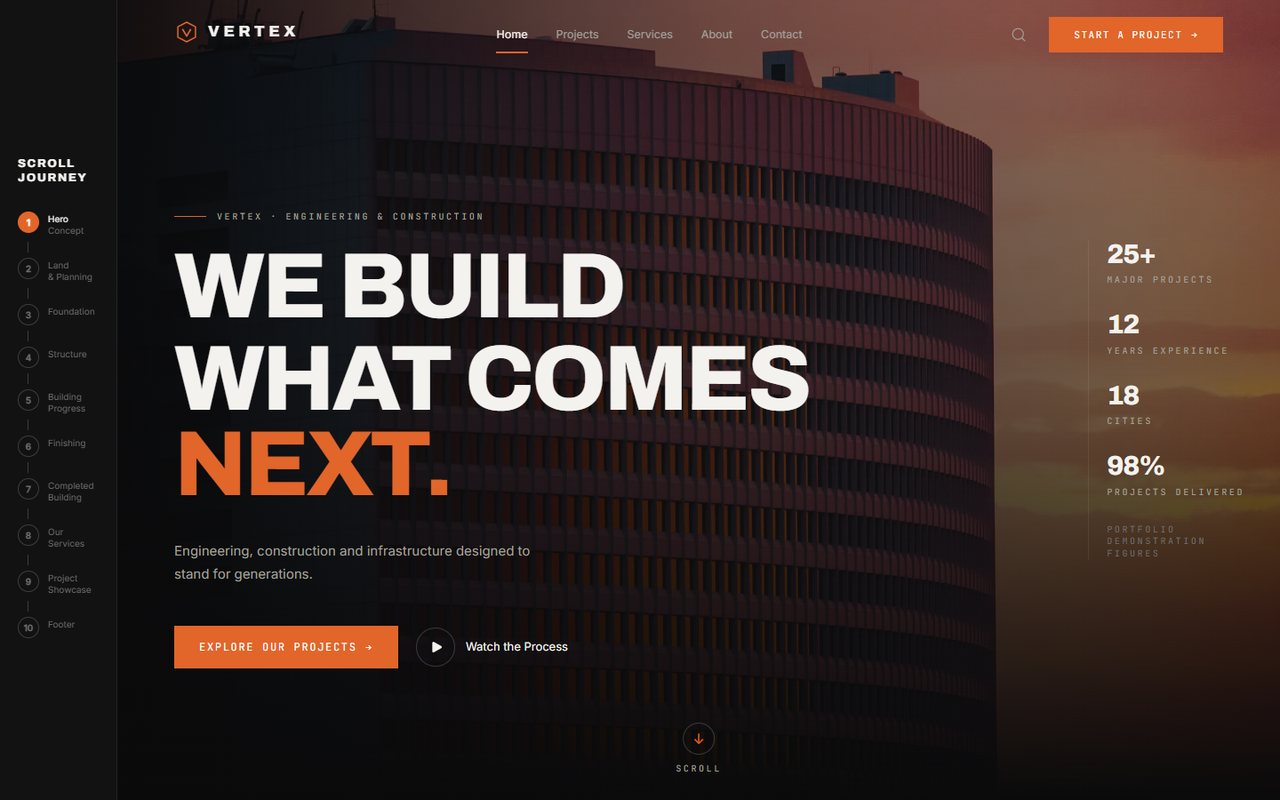
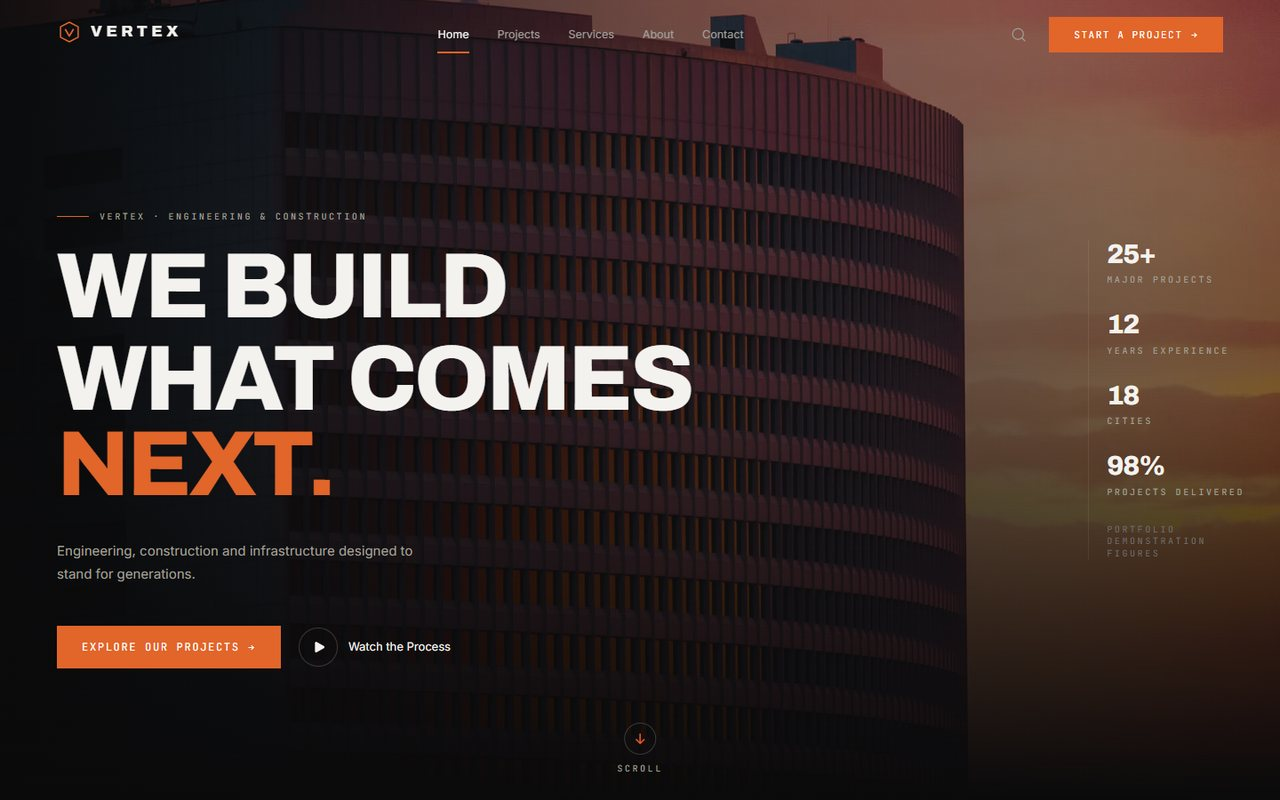
Remove the scroll journey rail
The page now runs full width with no fixed left gutter.

diff --git a/src/App.tsx b/src/App.tsx
@@ -2,7 +2,6 @@ import { MotionConfig } from "framer-motion";
 import { useState } from "react";
 import { Footer } from "./components/Footer";
 import { Intro } from "./components/Intro";
-import { JourneyRail } from "./components/JourneyRail";
 import { Navbar } from "./components/Navbar";
 import { Completion } from "./sections/Completion";
 import { FinalCTA } from "./sections/FinalCTA";
@@ -24,23 +23,19 @@ export default function App() {
     <MotionConfig reducedMotion="user">
       <Intro onDone={() => setReady(true)} />
       <Navbar />
-      <JourneyRail />
-      {/* The journey rail is fixed to the left gutter, so the page sits beside it. */}
-      <div className="xl:pl-[132px]">
-        <main>
-          <Hero ready={ready} />
-          <Land />
-          <Foundation />
-          <Structure />
-          <Progress />
-          <Finishing />
-          <Completion />
-          <Services />
-          <Showcase />
-          <FinalCTA />
-        </main>
-        <Footer />
-      </div>
+      <main>
+        <Hero ready={ready} />
+        <Land />
+        <Foundation />
+        <Structure />
+        <Progress />
+        <Finishing />
+        <Completion />
+        <Services />
+        <Showcase />
+        <FinalCTA />
+      </main>
+      <Footer />
     </MotionConfig>
   );
 }

diff --git a/src/data/content.ts b/src/data/content.ts
@@ -21,20 +21,6 @@ export const navLinks = [
   { label: "Contact", href: "#contact" },
 ];
 
-/** The scroll journey rail — ten numbered stops down the left edge. */
-export const journey = [
-  { no: 1, label: "Hero", sub: "Concept", id: "vision" },
-  { no: 2, label: "Land", sub: "& Planning", id: "land" },
-  { no: 3, label: "Foundation", sub: "", id: "foundation" },
-  { no: 4, label: "Structure", sub: "", id: "structure" },
-  { no: 5, label: "Building", sub: "Progress", id: "progress" },
-  { no: 6, label: "Finishing", sub: "", id: "finishing" },
-  { no: 7, label: "Completed", sub: "Building", id: "completion" },
-  { no: 8, label: "Our Services", sub: "", id: "services" },
-  { no: 9, label: "Project", sub: "Showcase", id: "showcase" },
-  { no: 10, label: "Footer", sub: "", id: "contact" },
-];
-
 /* ---------------------------------------------------------------- imagery */
 
 export const photos = {

diff --git a/src/components/Navbar.tsx b/src/components/Navbar.tsx
@@ -57,7 +57,7 @@ export function Navbar() {
   return (
     <>
       <header
-        className={`fixed inset-x-0 top-0 z-[60] transition-[background-color,border-color,padding,backdrop-filter] duration-500 xl:pl-[132px] ${
+        className={`fixed inset-x-0 top-0 z-[60] transition-[background-color,border-color,padding,backdrop-filter] duration-500 ${
           solid ? "border-b border-line bg-void/88 py-2.5 backdrop-blur-xl" : "py-4"
         }`}
       >

diff --git a/README.md b/README.md
@@ -15,7 +15,7 @@ npm run preview  # then: node scripts/verify-scroll.mjs
 
 ## The idea
 
-The visitor arrives at a finished tower at sunset. As soon as they scroll, the camera pulls back off it and drops into empty land — and from there they build the thing they were just looking at. A numbered **scroll journey** down the left edge tracks where they are:
+The visitor arrives at a finished tower at sunset. As soon as they scroll, the camera pulls back off it and drops into empty land — and from there they build the thing they were just looking at:
 
 `Hero → Land & Planning → Foundation → Structure → Building Progress → Finishing → Completed Building → Our Services → Project Showcase → Footer`
 
@@ -44,7 +44,7 @@ In the land stage the survey drawing is laid over the photograph of the site —
 ## Structure
 
 - `src/sections/` — one file per stage, in scroll order: `Hero`, `Land`, `Foundation`, `Structure` (which contains the exploded view), `Progress`, `Finishing`, `Completion`, `Services`, `Showcase`, `FinalCTA`.
-- `src/components/` — `Navbar`, `JourneyRail` (the numbered stage rail), `Intro` (title card), `StageLayers`, `BuildingFrame`, `Img`, `SplitLines`, `Reveal`, `Footer`.
+- `src/components/` — `Navbar`, `Intro` (title card), `StageLayers`, `BuildingFrame`, `Img`, `SplitLines`, `Reveal`, `Footer`.
 - `src/data/content.ts` — all copy, imagery and project data. Edit content here, not in the sections.
 - `src/hooks/useSectionProgress.ts` — the scroll hook every stage uses.
 - Design tokens live in the `@theme` block of `src/index.css` — Tailwind v4, so there is no `tailwind.config.js`.
